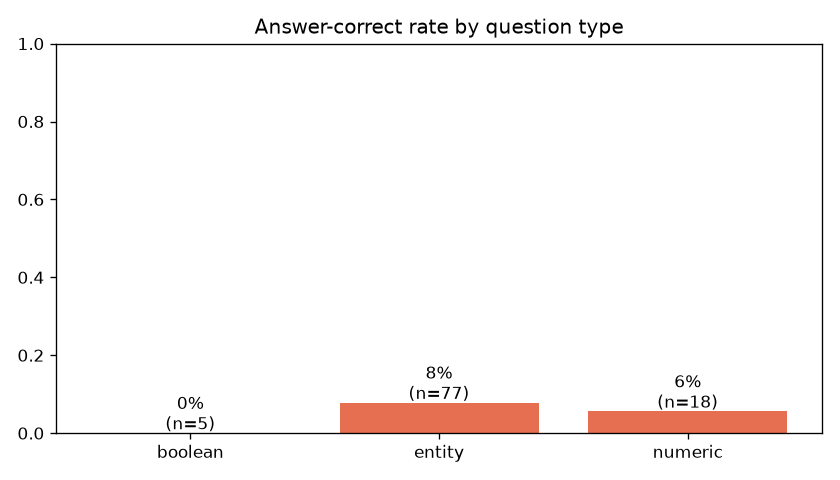
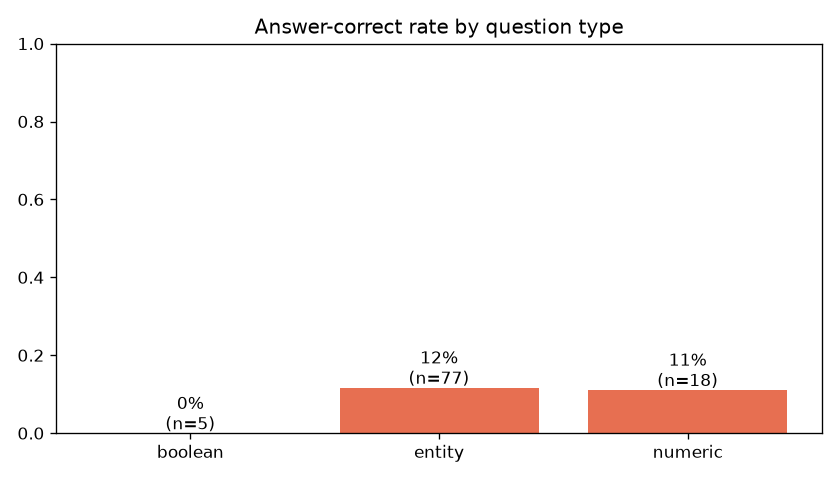
report(minicpm-run100): corrected baseline after fixing grammar-collapse mishandling
With student constrained decoding disabled (the mishandling fix), MiniCPM5-1B goes from
7% correct / 0% grounded / synthesize-collapse to 11% correct / 41% grounded with 100%
valid actions and real retrieval (1,058 searches vs 2). Remaining gap vs qwen2b/granite is
genuine protocol-adherence weakness (rarely extracts, ignores teacher advice to do so),
stable across temperature/top_p/thinking probes.

Changed region(s): [[0.681, 0.7188, 0.9595, 0.875], [0.4024, 0.7188, 0.65, 0.8438]]

diff --git a/reports/fau_router_run100_minicpm/REPORT.md b/reports/fau_router_run100_minicpm/REPORT.md
@@ -1,25 +1,37 @@
-# gpt-oss-120b teacher (router) — student openbmb/MiniCPM5-1B — 100 HotpotQA samples
+# gpt-oss-120b teacher (router) — student openbmb/MiniCPM5-1B (corrected handling) — 100 HotpotQA samples
 
-**Config:** student `hf.co/openbmb/MiniCPM5-1B-GGUF:Q8_0` (local via Ollama), teacher **cost router** fau→openrouter-free→paid; 3 plan-review rounds, running budget = 12 steps; 100 fixed questions; 8 GPUs, one sample per GPU in parallel (round-robin shards).
+**Config:** student `hf.co/openbmb/MiniCPM5-1B-GGUF:Q8_0` (local via Ollama, **student constrained decoding disabled** — `--student-no-schema`), teacher **cost router** fau→openrouter-free→paid; 3 plan-review rounds, running budget = 12 steps; 100 fixed questions; 8 GPUs, one sample per GPU in parallel (round-robin shards).
 
-**Runtime:** ~19.4 min wall (1165s; all 8 workers exit 0). Teacher router: 1,493/1,494 calls free via FAU, 1 paid fallthrough → ~$0.0001.
+**Runtime:** ~33 min wall (1986s; all 8 workers exit 0). All 1,473 teacher calls free via FAU.
 
-**Note — required a fix:** MiniCPM5 is a ChatML/instruct model; the pipeline originally called Ollama's `/api/generate` (raw prompt), which bypassed the chat template and produced pure gibberish. Switched to `/api/chat` (applies the template) → 100% valid JSON, coherent reasoning. The low score below is genuine model weakness, not the earlier bug: MiniCPM5-1B over-uses `synthesize`, rarely retrieves evidence (0% grounded), and fills the answer field poorly — far below qwen3.5:2b (73%) and qwen3.5:0.8b (58%).
+**Handling fixes for this model (vs. the earlier invalid 7% run):** MiniCPM5-1B was being
+mishandled twice. (1) Ollama `/api/generate` bypassed its ChatML chat template → gibberish
+(fixed earlier by switching to `/api/chat`). (2) llama.cpp **grammar-constrained decoding
+collapsed its policy**: under the all-tools JSON-schema grammar it emitted the degenerate
+shortest path (`synthesize {}` on 1098/1200 steps, only 2 searches in the whole run) while
+producing valid, sensible JSON unconstrained (4/4 probes chose `search` with real queries).
+Fix: per-run `student_use_response_schema=false` disables the student grammar (parse/repair
+covers stragglers); the tiny finish-only grammar stays on for the forced final step so a
+real answer is committed. Corrected behavior: **100% valid actions, 1,058 searches,
+grounded 0%→41%, correct 7%→11%**. The remaining gap vs qwen2b/granite (73%) is genuine
+model limitation in this bespoke protocol: it stays search-heavy (extract used only 28×),
+ignores explicit teacher advice to extract, and never finishes naturally — unchanged across
+temperature/top_p/thinking probes.
 
 ## Headline metrics
 
 | Metric | Value |
 |---|---|
 | Episodes | 100 |
-| Answer correct (cover-match) | **7/100 = 7%** |
-| Answer grounded in evidence | 0/100 = 0% |
-| Exact match | 0/100 = 0% |
-| Mean token-F1 | 0.020 |
-| Supporting-doc recall | 1.0% |
+| Answer correct (cover-match) | **11/100 = 11%** |
+| Answer grounded in evidence | 41/100 = 41% |
+| Exact match | 1/100 = 1% |
+| Mean token-F1 | 0.037 |
+| Supporting-doc recall | 82.5% |
 | Supporting-fact recall (verbatim extract) | 0.0% |
-| Steps used (budget 12) | min 12, median 12, mean 12.0, max 12 |
-| Mean step-efficiency | 0.17 |
-| Total tokens (student+teacher) | 1,927,561 |
+| Steps used (budget 12) | min 9, median 12, mean 11.9, max 12 |
+| Mean step-efficiency | 0.33 |
+| Total tokens (student+teacher) | 3,550,441 |
 
 ![headline](plots/headline.png)
 
@@ -30,7 +42,7 @@
 ## Stop reason & finishing behaviour
 
 - Natural finish (`teacher_accept`): **0** episodes, 0 correct (0%).
-- Forced finish (`budget_forced_finish`): **100** episodes, 7 correct (7%).
+- Forced finish (`budget_forced_finish`): **100** episodes, 11 correct (11%).
 
 The student rarely satisfied the demanding teacher within 12 steps (only 0/100 natural finishes); most episodes ran to the budget cap. The finish-only forced-finish schema still produced a real, often-correct answer.
 
@@ -38,10 +50,10 @@ The student rarely satisfied the demanding teacher within 12 steps (only 0/100 n
 
 | Gate | Accepted | Top rejection reasons |
 |---|---|---|
-| Strict (natural finish req.) | 0/100 | {'ungrounded': 100, 'not_natural_finish': 100, 'low_efficiency': 100, 'too_many_wasted_steps': 100} |
-| Relaxed (allow forced, eff≥0.6) | 0/100 | {'ungrounded': 100, 'low_efficiency': 100, 'too_many_wasted_steps': 100, 'incorrect': 93} |
+| Strict (natural finish req.) | 0/100 | {'not_natural_finish': 100, 'too_many_wasted_steps': 100, 'low_efficiency': 90, 'incorrect': 89} |
+| Relaxed (allow forced, eff≥0.6) | 0/100 | {'low_efficiency': 96, 'too_many_wasted_steps': 96, 'incorrect': 89, 'ungrounded': 59} |
 
-The dominant filter is **`gold_answer_leaked` (12 episodes)**: the strong teacher frequently states the gold answer in its feedback. The leakage sanitizer redacts it from the student, but the quality gate still excludes those traces so the SFT set only contains episodes the teacher solved *without revealing the answer*. The relaxed gate yields **0 clean traces** which the SFT exporter turned into leakage-free chat examples (healthcheck: clean).
+The dominant filter is **`gold_answer_leaked` (49 episodes)**: the strong teacher frequently states the gold answer in its feedback. The leakage sanitizer redacts it from the student, but the quality gate still excludes those traces so the SFT set only contains episodes the teacher solved *without revealing the answer*. The relaxed gate yields **0 clean traces** which the SFT exporter turned into leakage-free chat examples (healthcheck: clean).
 
 ## Takeaways
 
